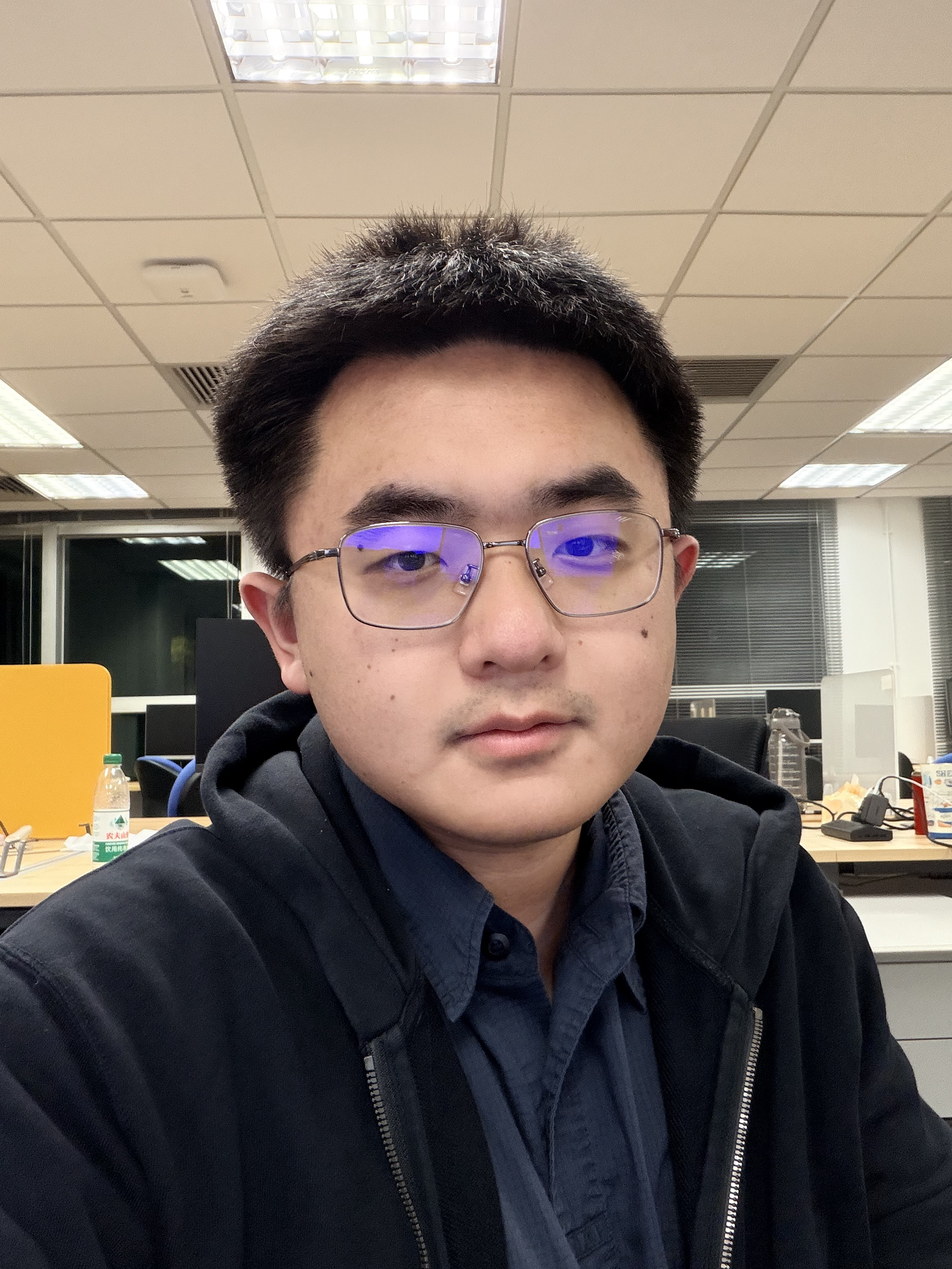
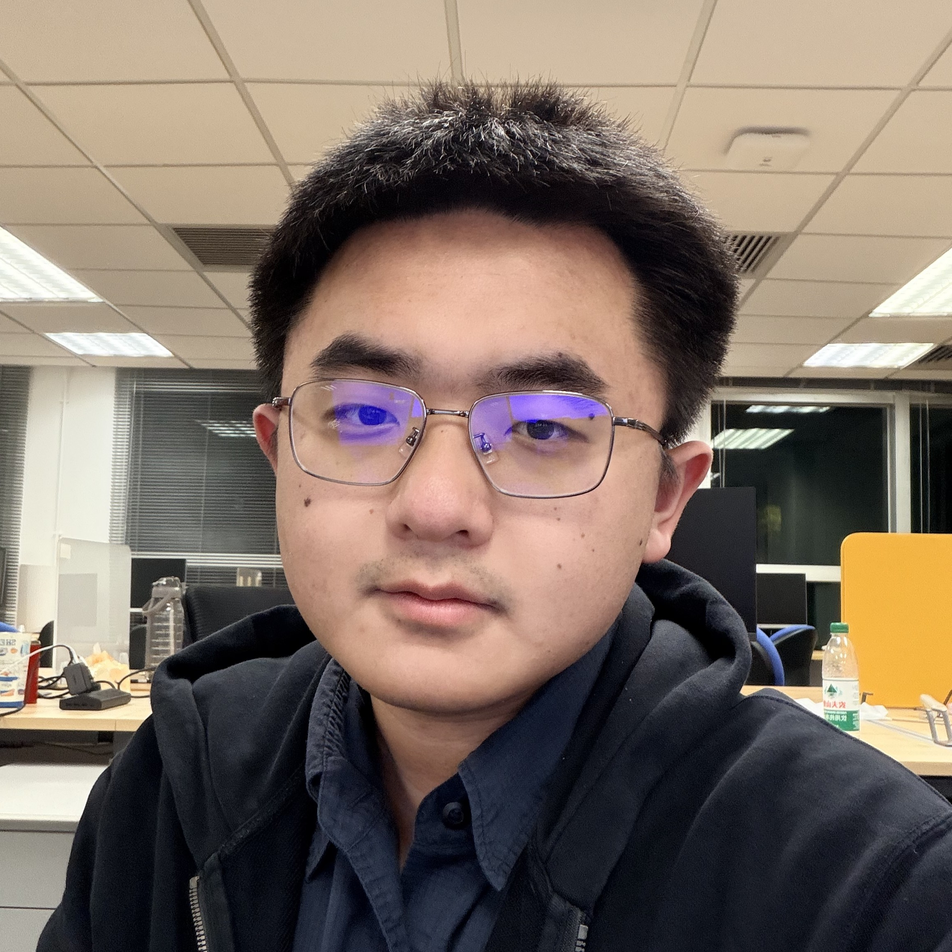
2341

diff --git a/_layouts/default.html b/_layouts/default.html
@@ -42,7 +42,7 @@
               </p>
             </td>
             <td style="padding:2.5%;width:40%;max-width:40%">
-              <img style="width:100%;max-width:100%" alt="profile photo" src="images/2.jpg">
+              <img style="width:100%;max-width:100%" alt="profile photo" src="images/1.jpg">
             </td>
           </tr>
         </table>
@@ -113,8 +113,8 @@
   {% for cat in post.categories %}
   {% if cat == 'internship' %}
   <tr>
-    <td style="padding:2.5%;width:25%;vertical-align:middle;min-width:120px">
-      <img src="{{post.image}}" alt="internship image" style="width:auto; height:auto; max-width:100%;" />
+    <td style="padding:2.5%;width:18%;vertical-align:middle;min-width:100px">
+      <img src="{{post.image}}" alt="internship image" style="width:120px; height:auto;" />
     </td>
     <td style="padding:2.5%;width:75%;vertical-align:middle">
       <h3>{{post.title}}</h3>

diff --git a/_posts/2024-03-01-uic-rr-ai-lab.md b/_posts/2024-03-01-uic-rr-ai-lab.md
@@ -6,6 +6,6 @@ duration: "3/2024 -- 9/2024"
 role: "Research Assistant"
 image: /images/uic.png
 categories: internship
-organization: 'Advisors: <a href="https://lcheng.org/">Prof. Lu Cheng</a> and <a href="http://www.cs.emory.edu/~wjin30/">Prof. Wei Jin</a>'
+organization: 'Advisors: Prof. <a href="https://lcheng.org/">Lu Cheng</a> and <a href="http://www.cs.emory.edu/~wjin30/">Wei Jin</a>'
 ---
 Developed the Threshold Filtering **Packing** method to reduce sequence cross-contamination, enhancing contextual learning and improving the utilization of training data. Conducted research in Trustworthy AI and LLM Fairness, investigating data-centric optimization strategies to mitigate demographic bias amplification during LLM **Alignment**.
